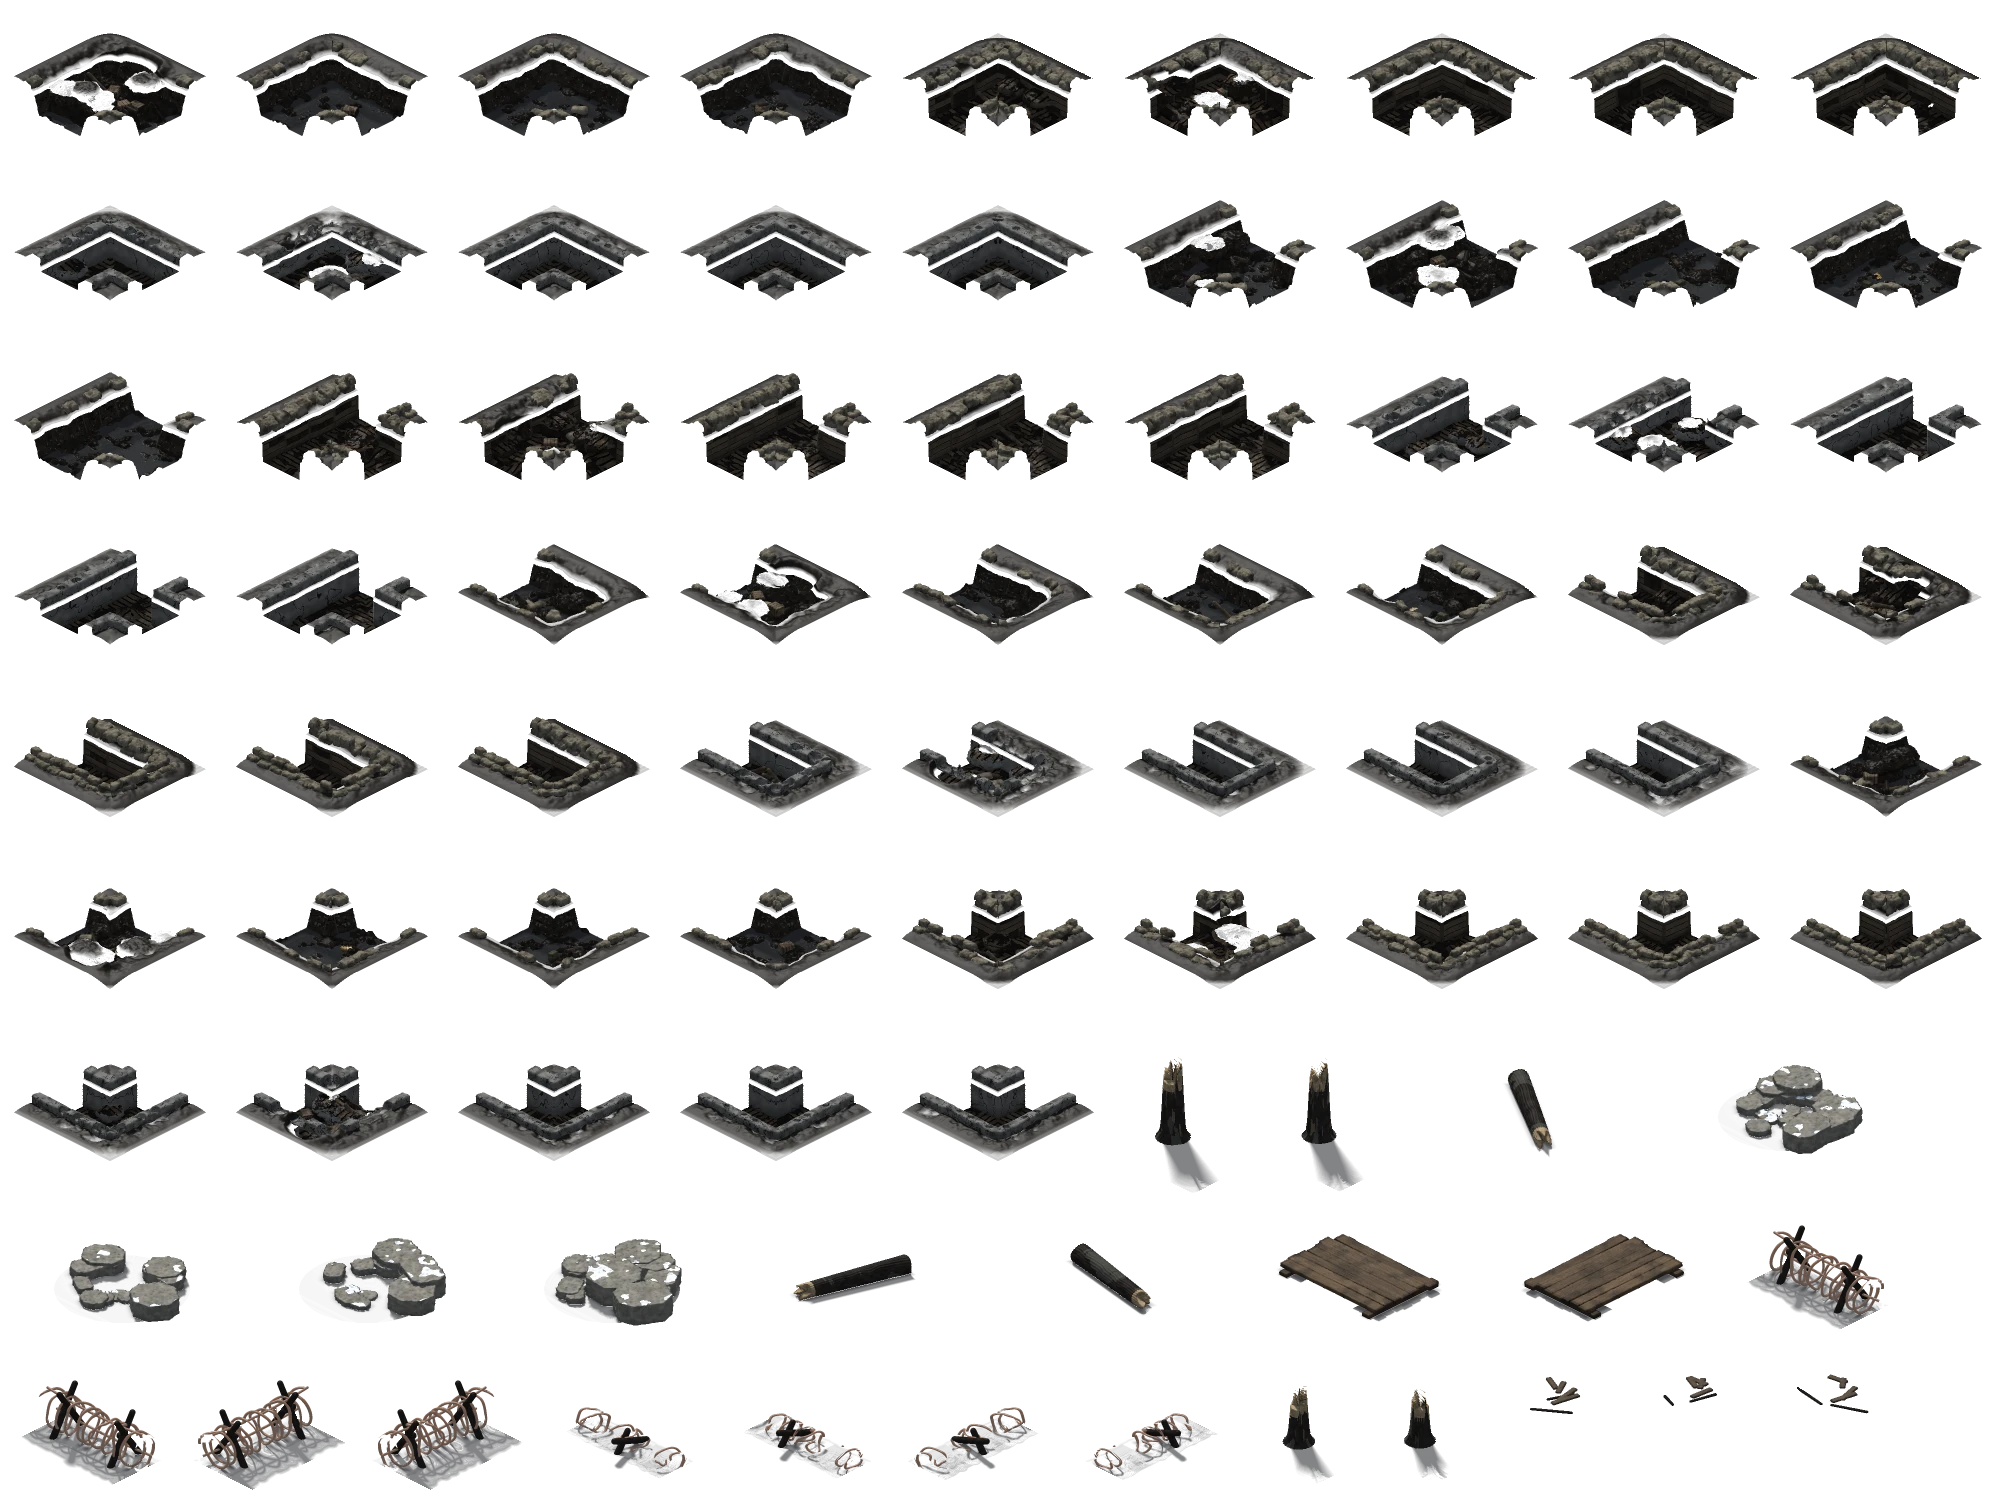
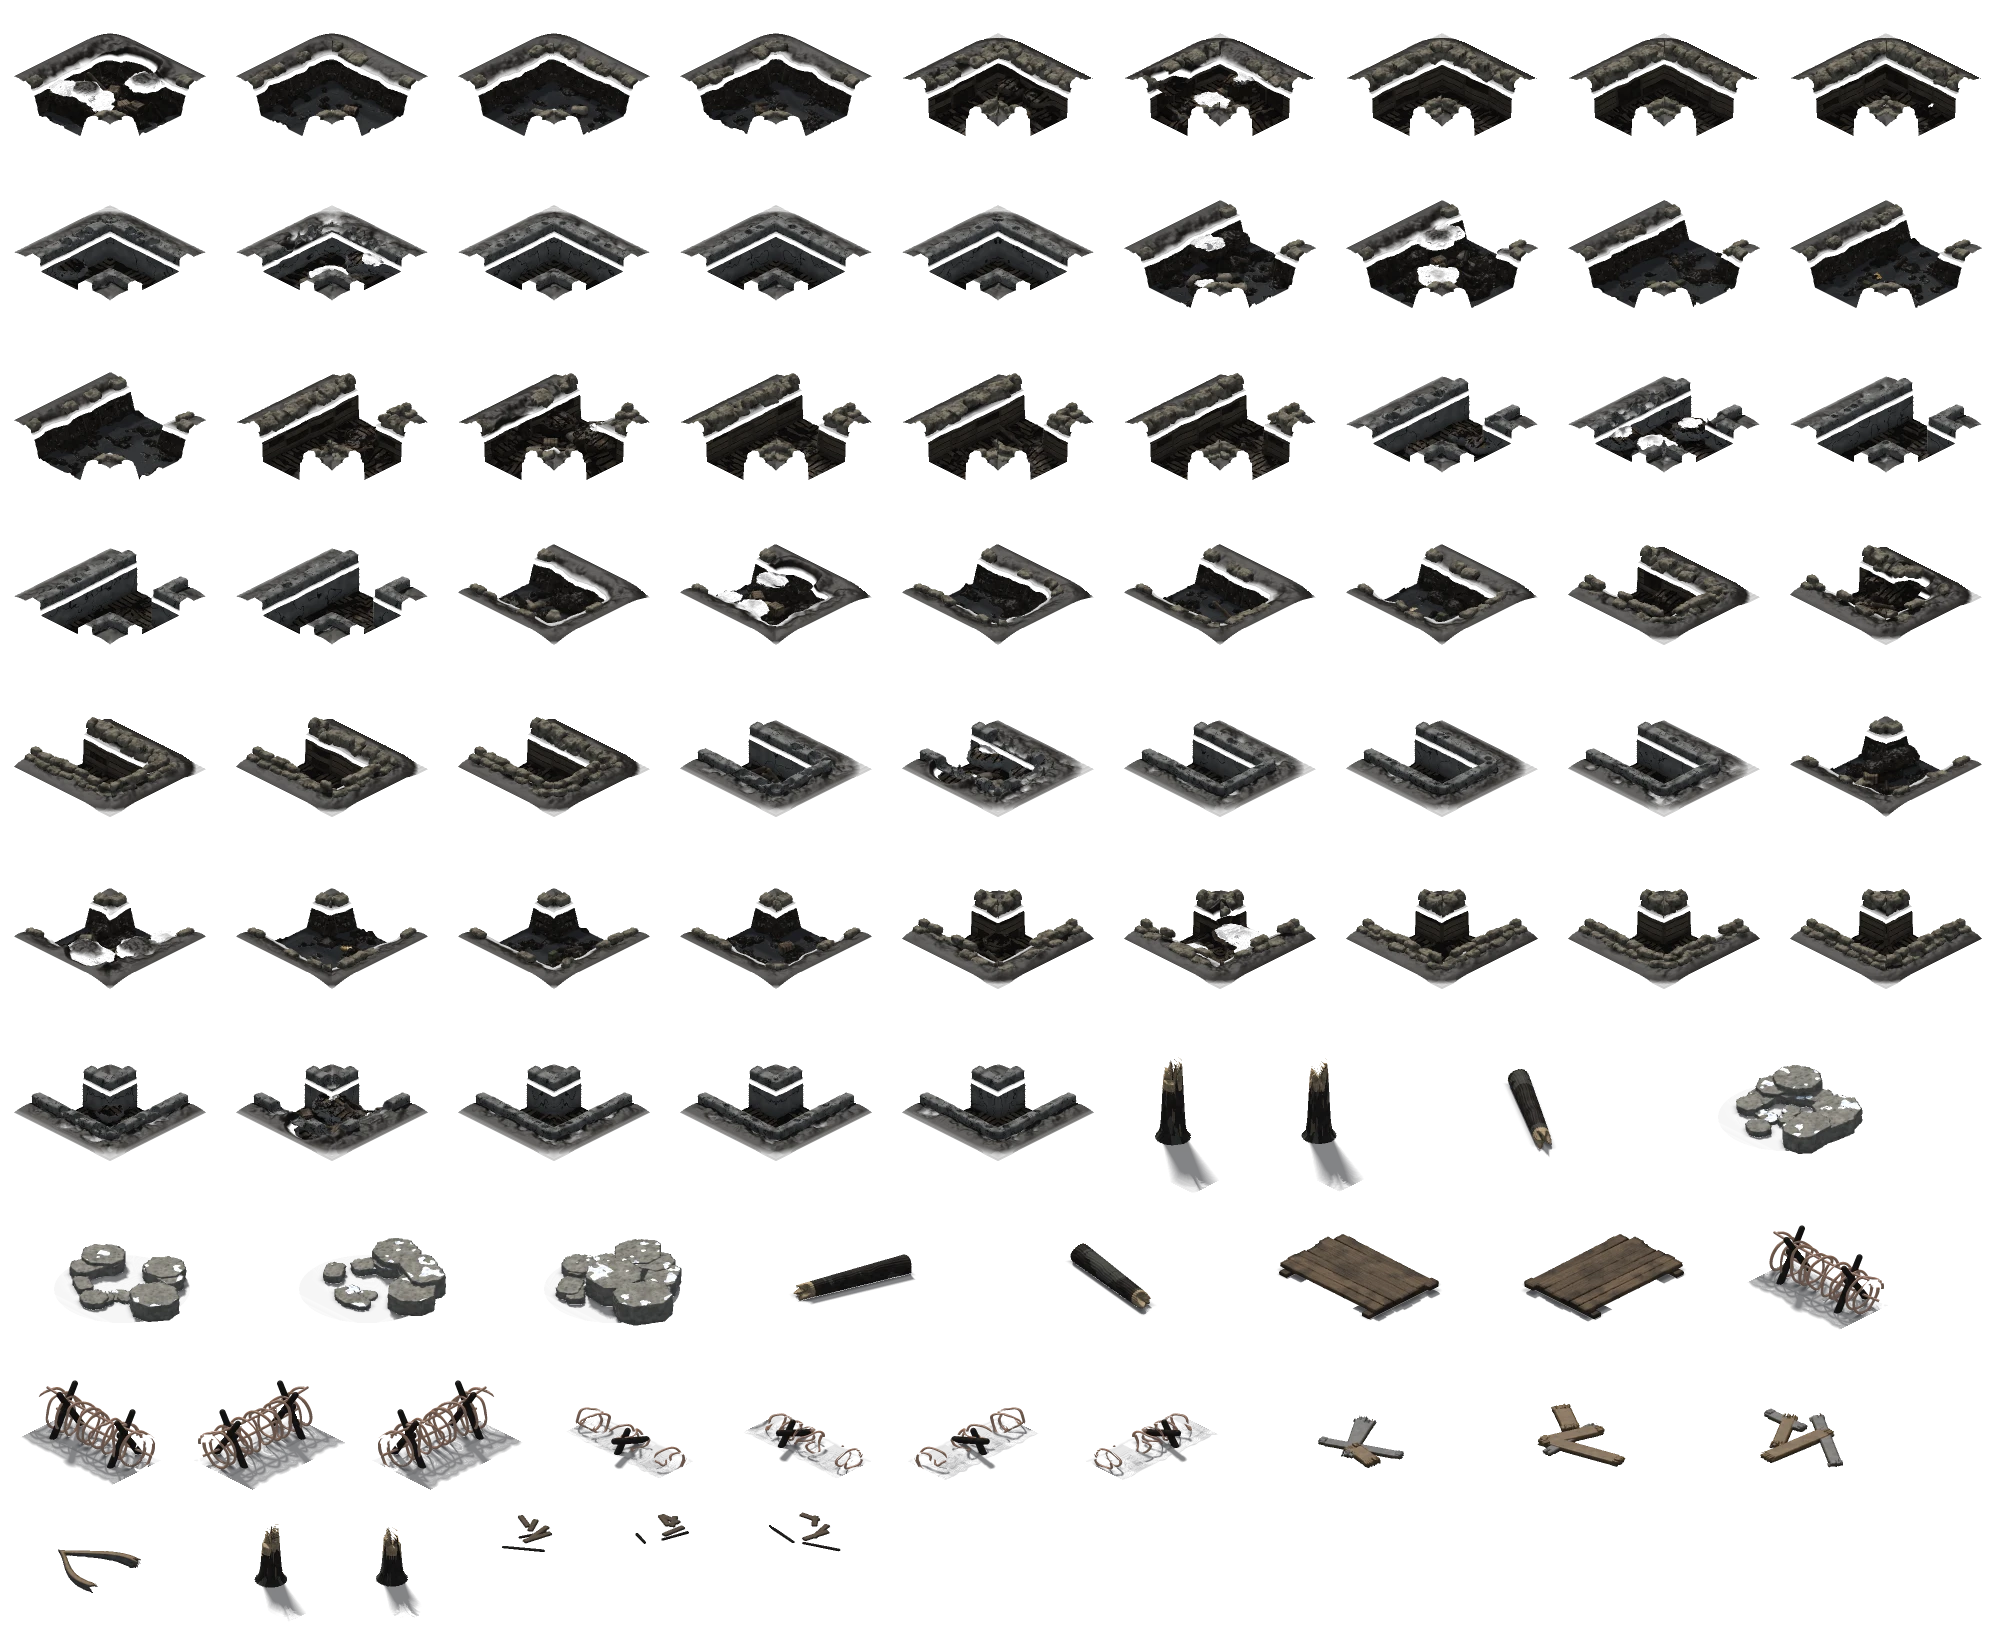
Boats under fire: the dead float in the sea; a shell smashes a boat to pieces
Men killed in a boat by rifle or machine-gun fire go over the side: their bodies (new pre-rendered
floating dead, sunk to the waterline, soaked dark) float beside the boat, bob on the swell and drift, and
sink from sight after half a minute or so. A shell bursting on a boat smashes it and kills every man in
it: broken planks and the bow half of the hull (new pre-rendered pieces) float among the bodies, and sink
in their turn; no boat is left drifting.

Claude-Session: https://claude.ai/code/session_01QRLYjet5i3xPK5hPmw42NL

diff --git a/src/game.js b/src/game.js
@@ -737,15 +737,23 @@ export function damageUnit(state, u, amount, blast = null, shooter = null) {
   const t = UNIT_TYPES[u.type];
   const before = u.men;
   if (u.afloat) amount *= 1.4; // men packed in an open boat
+  const smashed = u.afloat && blast; // a shell on a boat: it goes to pieces, and every man in it with it
+  if (smashed) amount = u.hp;
   u.hp -= amount;
   u.men = Math.max(0, Math.ceil(u.hp / t.hpPerMan - 1e-6));
   state.stats.lost[u.team] += before - u.men;
-  if (!u.afloat) for (let i = 0; i < Math.min(3, before - u.men); i++) fallen(state, u, blast, shooter); // (at sea they go into the water)
+  if (!u.afloat) for (let i = 0; i < Math.min(3, before - u.men); i++) fallen(state, u, blast, shooter);
+  else { // at sea the dead go over the side and float, drifting, until they sink from sight
+    const fl = state.floaters || (state.floaters = []);
+    for (let i = 0; i < Math.min(smashed ? 4 : 2, before - u.men); i++) fl.push({ kind: 'body', x: u.x + (rand() - 0.5) * (smashed ? 1.4 : 0.8), y: u.y + (rand() - 0.5) * (smashed ? 1.0 : 0.6), v: Math.floor(rand() * 3), d: [0, 2, 5][Math.floor(rand() * 3)], t: state.time, life: 22 + rand() * 18, m: rand() < 0.5 });
+    if (smashed) for (let i = 0; i < 6; i++) fl.push({ kind: 'piece', x: u.x + (rand() - 0.5) * 1.6, y: u.y + (rand() - 0.5) * 1.1, v: i === 0 ? 3 : Math.floor(rand() * 3), t: state.time, life: 28 + rand() * 20, m: rand() < 0.5 });
+    if (fl.length > 160) fl.splice(0, fl.length - 160);
+  }
   if (state.decals.length > 260) state.decals = state.decals.filter((d) => state.time - d.t < 140).slice(-260);
   if (u.hp <= 0) {
     u.dead = true;
     u.men = 0;
-    if (u.afloat && state.wrecks) state.wrecks.push({ x: u.x, y: u.y, v: 'empty', t: state.time }); // the boat drifts, empty
+    if (u.afloat && state.wrecks && !smashed) state.wrecks.push({ x: u.x, y: u.y, v: 'empty', t: state.time }); // the boat drifts, empty (a shell leaves only pieces)
     if (u.team === PLAYER) pushMessage(state, `${t.name} wiped out`, 'loss');
     state.effects.push({ type: 'smoke', x: u.x, y: u.y, age: 0, life: 2.5 });
   }
@@ -958,6 +966,10 @@ function updateEffects(state, dt) {
   if (state.returning && state.returning.length) {
     for (const b of state.returning) b.x += b.dir * 1.1 * dt;
     state.returning = state.returning.filter((b) => { const t = tileAt(state.map, b.x, b.y); return t && !t.off; });
+  }
+  if (state.floaters && state.floaters.length) { // the dead and the wreckage drift on the swell, then sink
+    for (const f of state.floaters) { f.x += 0.05 * dt; f.y += 0.02 * dt; }
+    state.floaters = state.floaters.filter((f) => state.time - f.t < f.life);
   }
   for (const e of state.effects) e.age += dt;
   state.effects = state.effects.filter((e) => e.age < e.life);

diff --git a/src/render.js b/src/render.js
@@ -982,6 +982,7 @@ export class Renderer {
     for (const u of state.units) if (u.visible && !u.nest) objs.push({ k: u.onShip ? 1e6 : u.x + u.y, kind: 'unit', u }); // (a gun on a ship's deck stands on top of her)
     if (state.wrecks) for (const w of state.wrecks) objs.push({ k: w.x + w.y - 0.5, kind: 'wreck', w });
     if (state.returning) for (const b of state.returning) objs.push({ k: b.x + b.y, kind: 'back', b });
+    if (state.floaters) for (const f of state.floaters) objs.push({ k: f.x + f.y - 0.8, kind: 'float', f });
     objs.sort((a, b) => a.k - b.k);
     for (const o of objs) {
       if (o.kind === 'decor') this.drawDecor(ctx, o.t);
@@ -989,6 +990,14 @@ export class Renderer {
       else if (o.kind === 'rock') this.drawRock(ctx, o.r);
       else if (o.kind === 'giant') { const c = iso(o.gi.x, o.gi.y); this.drawFrame(ctx, this.propGroup(), `giant${o.gi.v}${(this.S ?? 1) > 0.7 ? '_s' : ''}`, c.x, c.y, 1, o.gi.m); }
       else if (o.kind === 'town') this.drawBackdrop(ctx, o.bd);
+      else if (o.kind === 'float') { // floating in the sea, bobbing, sinking from sight at the end
+        const f = o.f, c = iso(f.x, f.y), age = state.time - f.t, a = Math.min(1, age / 0.6) * Math.min(1, (f.life - age) / 6);
+        ctx.globalAlpha = Math.max(0, a);
+        const bob = Math.sin(state.time * 1.3 + f.t) * 1.1;
+        if (f.kind === 'body') this.drawFrame(ctx, 'soldiers-uk', `float_v${f.v}_d${f.d}`, c.x, c.y + bob, 1.35, f.m);
+        else this.drawFrame(ctx, this.propGroup(), `boat_piece${f.v}`, c.x, c.y + bob, 1, f.m);
+        ctx.globalAlpha = 1;
+      }
       else if (o.kind === 'back') { const c = iso(o.b.x, o.b.y), f = Math.floor((state.time * 1.6 + o.b.t) % 4); this.drawFrame(ctx, this.propGroup(), `boat_back_r${f}`, c.x, c.y + Math.sin(state.time * 1.7 + o.b.t) * 1.2, 1); }
       else if (o.kind === 'wreck') { const c = iso(o.w.x, o.w.y); this.drawFrame(ctx, this.propGroup(), o.w.v === 'empty' ? 'boat_empty' : `boat${o.w.v}`, c.x, c.y, 1, o.w.v === 'empty'); }
       else if (o.kind === 'bunker') this.drawBunker(ctx, o.b, o.u, state.time, ui.selected.has(o.b.id));

diff --git a/index.html b/index.html
@@ -14,13 +14,13 @@
       "./src/audio.js": "./src/audio.js?v=785b89d0",
       "./src/campaign.js": "./src/campaign.js?v=611f4718",
       "./src/config.js": "./src/config.js?v=82ca61d3",
-      "./src/game.js": "./src/game.js?v=620fa129",
+      "./src/game.js": "./src/game.js?v=19f1902b",
       "./src/main.js": "./src/main.js?v=df11508a",
       "./src/map.js": "./src/map.js?v=3ed5bbdb",
       "./src/model-view.js": "./src/model-view.js?v=214a5b12",
       "./src/path.js": "./src/path.js?v=23c490f7",
       "./src/relief.js": "./src/relief.js?v=2441f819",
-      "./src/render.js": "./src/render.js?v=d5baa66b",
+      "./src/render.js": "./src/render.js?v=6c71969f",
       "./src/save.js": "./src/save.js?v=d7f96e45",
       "./src/tutorial.js": "./src/tutorial.js?v=134dce8b",
       "./src/ui.js": "./src/ui.js?v=4f9de07b",
